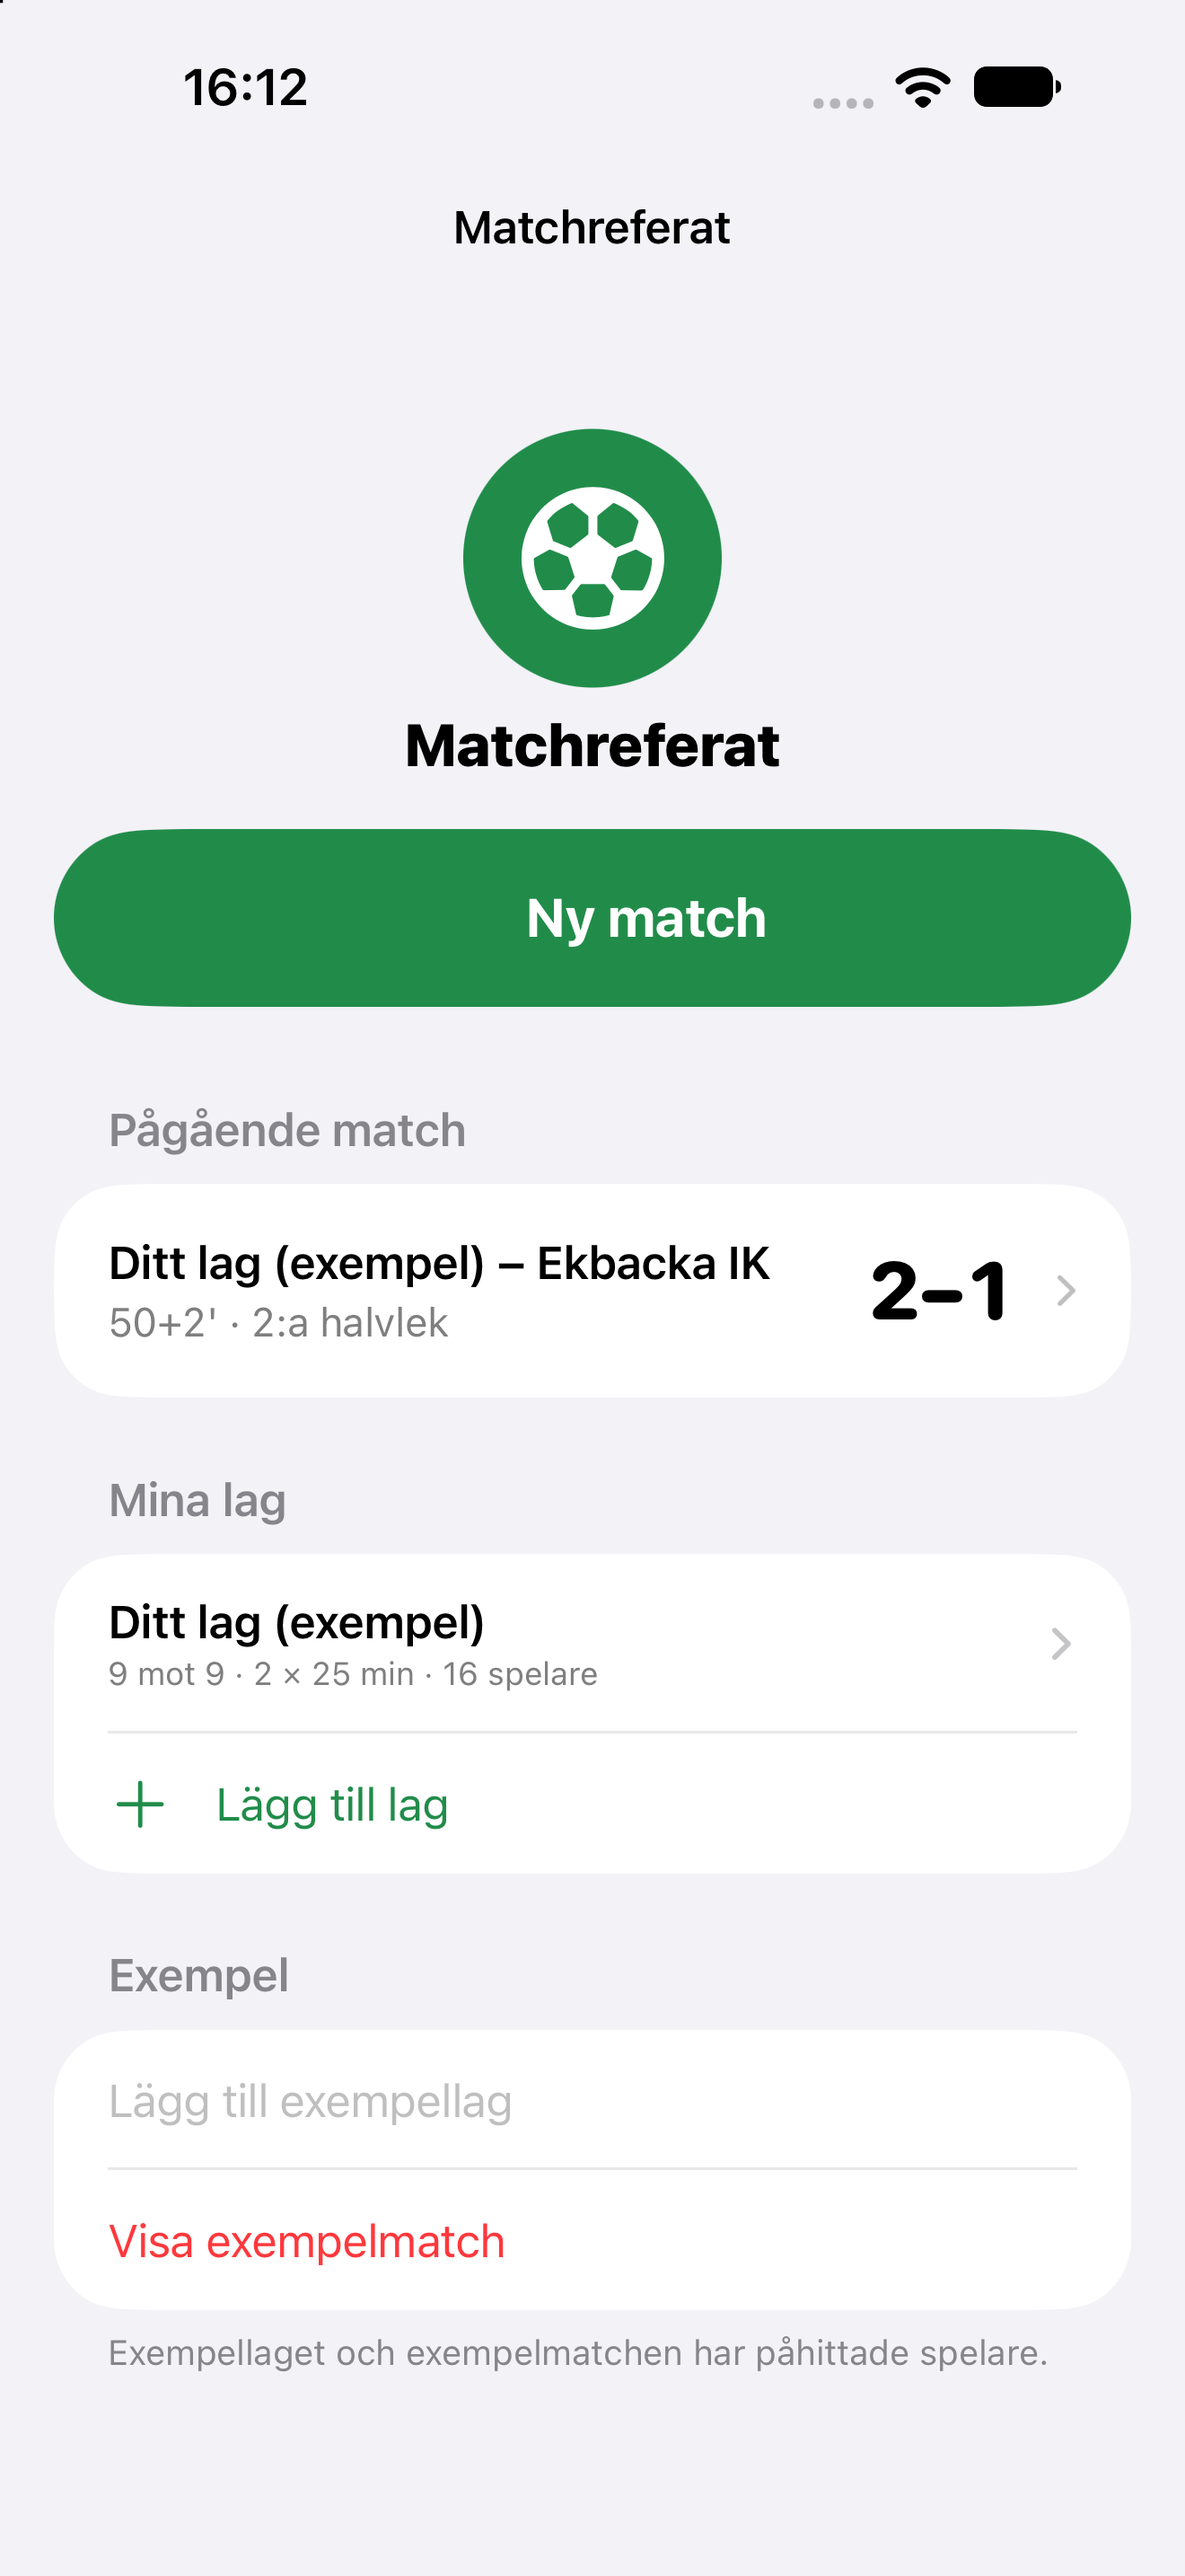
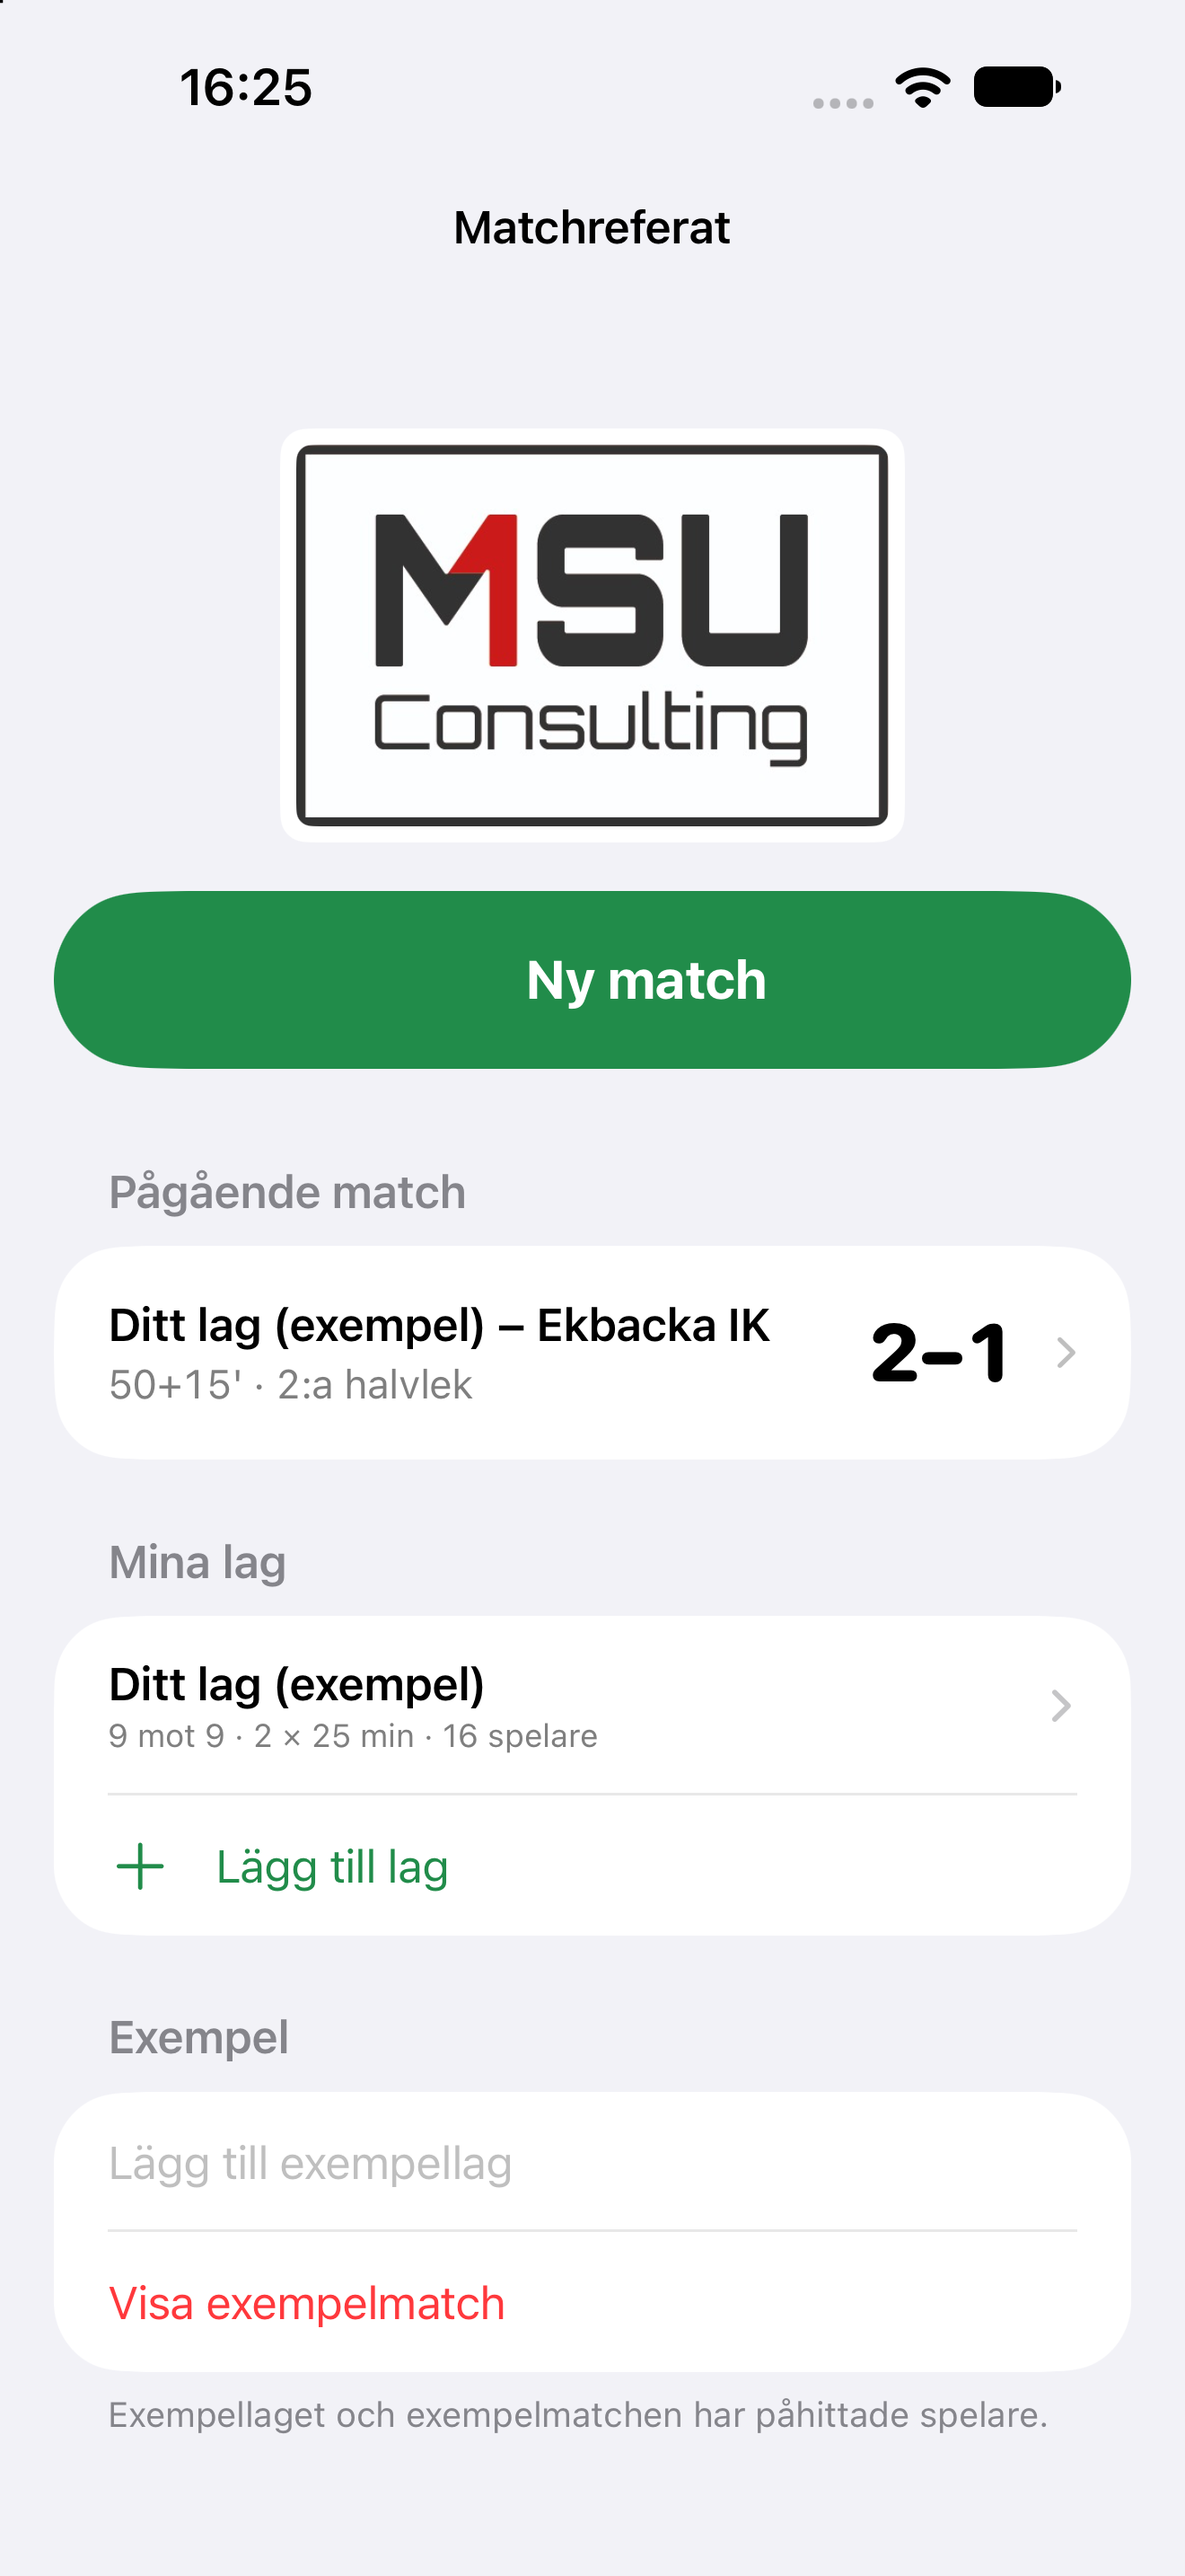
M1SU-loggan på startsidan

diff --git a/Sources/StartView.swift b/Sources/StartView.swift
@@ -87,14 +87,19 @@ struct StartView: View {
     }
 }
 
-/// Mikael's logo from the asset catalog ("Logo"); a simple placeholder until the real file is added.
+/// Mikael's M1SU logo from the asset catalog ("Logo"), with a placeholder if it is missing.
 struct Logo: View {
     var body: some View {
         if UIImage(named: "Logo") != nil {
+            // The logo has a white background, so it sits on a white card in dark mode too.
             Image("Logo")
                 .resizable()
                 .scaledToFit()
-                .frame(maxHeight: 120)
+                .frame(maxWidth: 220)
+                .clipShape(RoundedRectangle(cornerRadius: 6))
+                .padding(6)
+                .background(.white, in: RoundedRectangle(cornerRadius: 10))
+                .accessibilityLabel("M1SU Consulting")
         } else {
             VStack(spacing: 8) {
                 Image(systemName: "soccerball")
